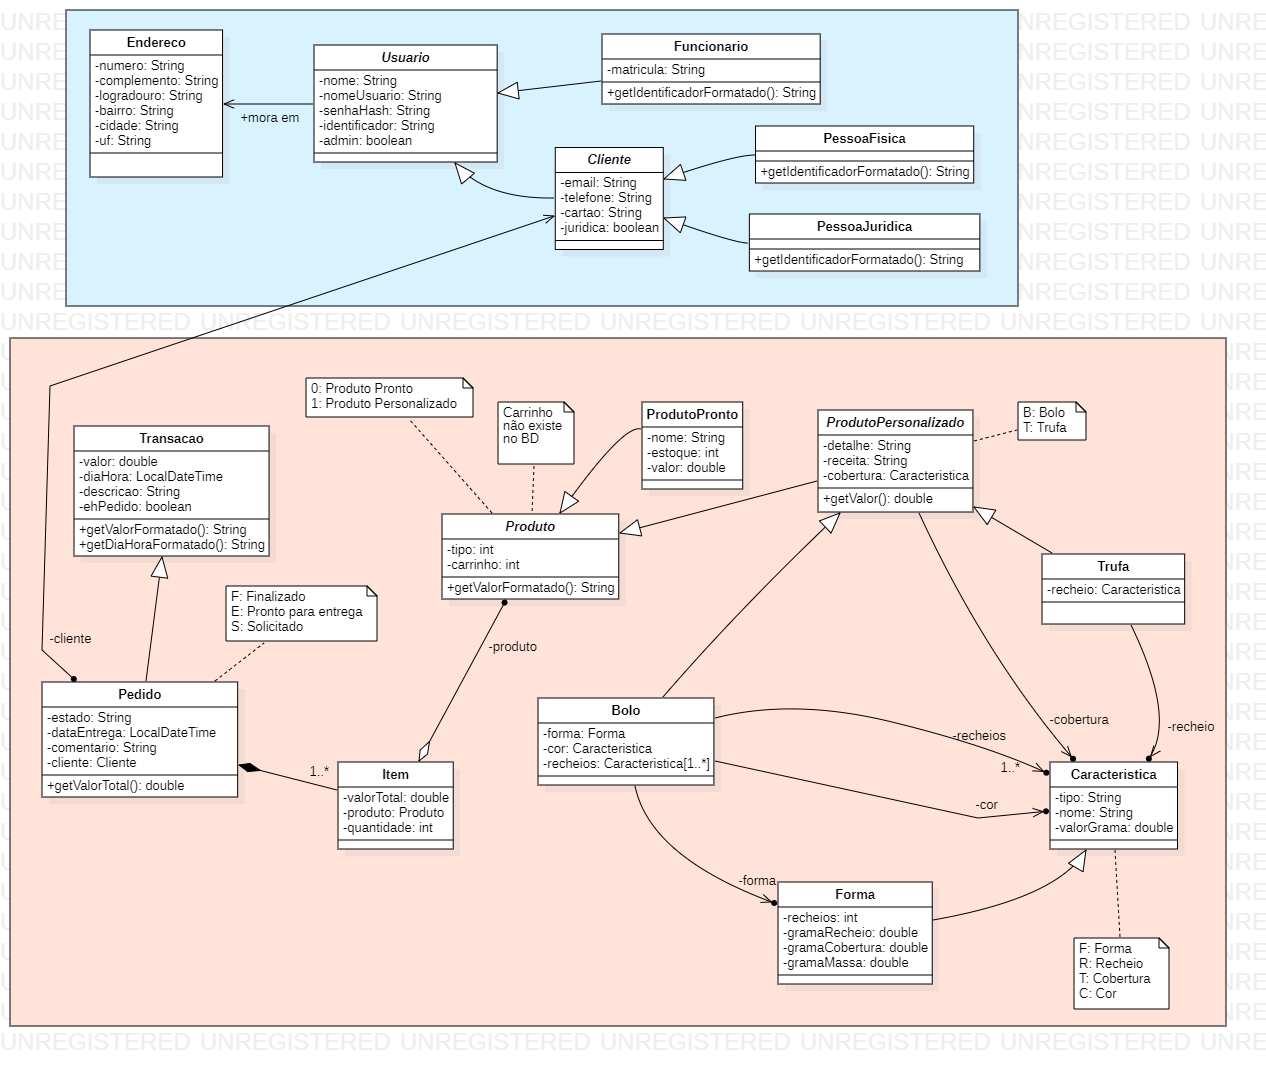
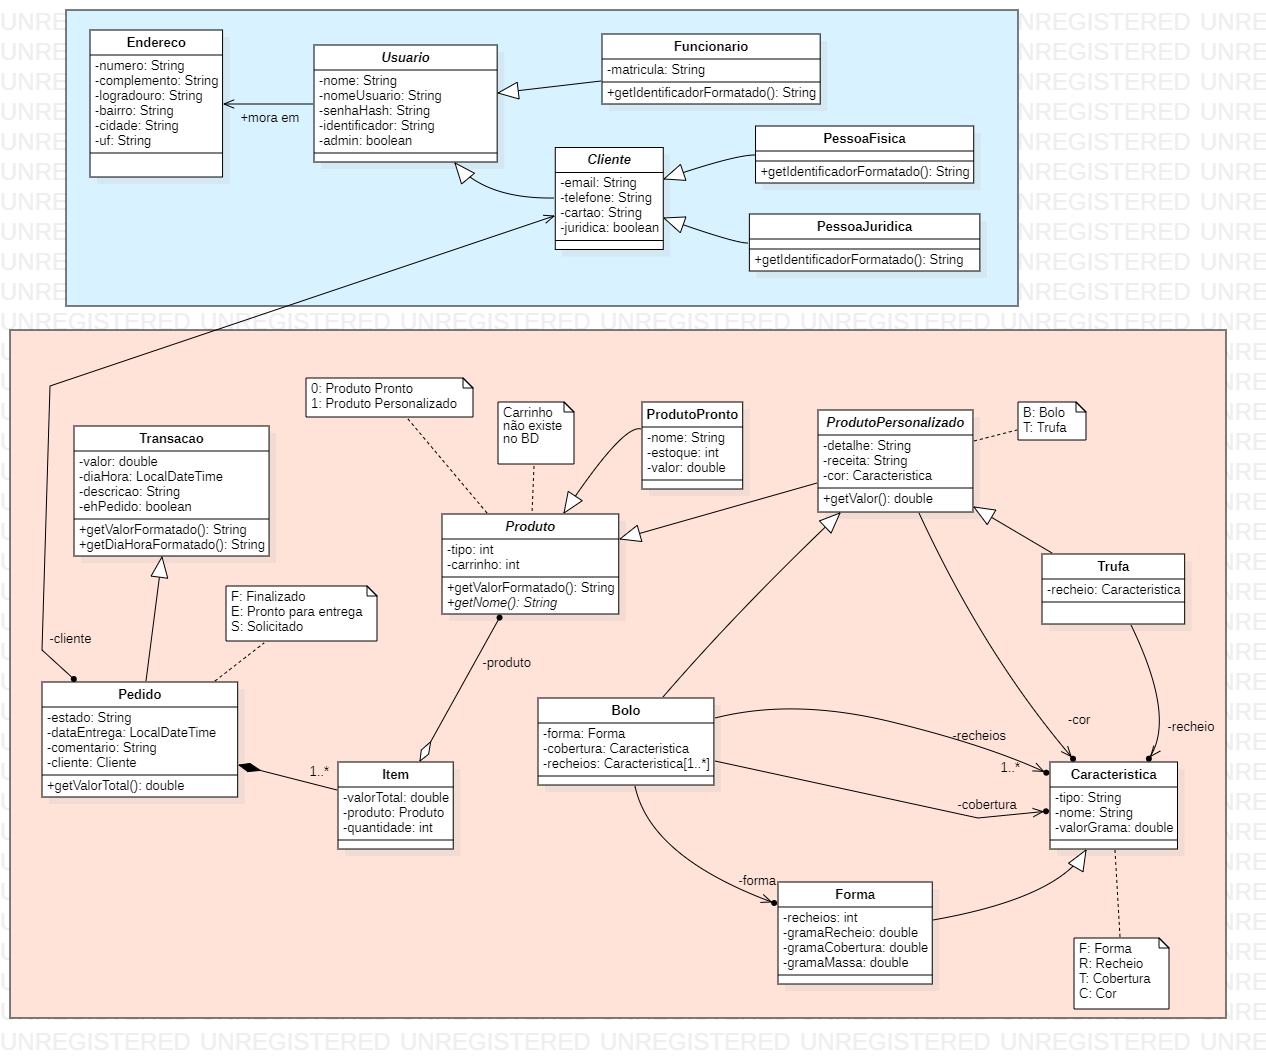
Troca cobertura para cor nas trufas

diff --git a/src/main/java/com/lugar/view/funcionario/VisualizacaoItemProdutoPersonalizado.java b/src/main/java/com/lugar/view/funcionario/VisualizacaoItemProdutoPersonalizado.java
@@ -6,10 +6,8 @@ package com.lugar.view.funcionario;
 
 import com.lugar.confeitaria.Util;
 import com.lugar.model.Caracteristica;
-import com.lugar.model.Forma;
 import com.lugar.model.Item;
 import com.lugar.model.ProdutoPersonalizado;
-import com.lugar.model.ProdutoPronto;
 import java.util.List;
 
 /**
@@ -17,14 +15,14 @@ import java.util.List;
  * @author lugar
  */
 public class VisualizacaoItemProdutoPersonalizado extends javax.swing.JDialog {
-    
+
     private java.awt.Frame pai;
-    
+
     public VisualizacaoItemProdutoPersonalizado(java.awt.Frame parent, boolean modal) {
         super(parent, modal);
         initComponents();
     }
-    
+
     public VisualizacaoItemProdutoPersonalizado(java.awt.Frame parent, boolean modal, Item item) {
         super(parent, modal);
         this.pai = parent;
@@ -34,7 +32,7 @@ public class VisualizacaoItemProdutoPersonalizado extends javax.swing.JDialog {
         textoValorPreenchido.setText(Util.formataDinheiro(item.getValorTotal() / (double) item.getQuantidade()));
         textoQuantidadePreenchido.setText(String.valueOf(item.getQuantidade()));
         textoValorTotalPreenchido.setText(Util.formataDinheiro(item.getValorTotal()));
-        if (produtoPersonalizado.getReceita().equals("B")) {
+        if (produtoPersonalizado.getReceita().equals(Util.RECEITA_BOLO)) {
             this.painelCamposBolo.setVisible(true);
             this.painelCamposTrufa.setVisible(false);
             this.trocaExibicaoRecheios(produtoPersonalizado.getRecheios());
@@ -46,11 +44,11 @@ public class VisualizacaoItemProdutoPersonalizado extends javax.swing.JDialog {
             this.painelCamposBolo.setVisible(false);
             this.painelCamposTrufa.setVisible(true);
             textoRecheioTrufaPreenchido.setText(produtoPersonalizado.getRecheio(0).getNome());
-            textoCoberturaTrufaPreenchido.setText(produtoPersonalizado.getCobertura().getNome());
+            textoCorTrufaPreenchido.setText(produtoPersonalizado.getCor().getNome());
             areaTextoDetalheTrufa.setText(produtoPersonalizado.getDetalhe());
         }
     }
-    
+
     private void trocaExibicaoRecheios(List<Caracteristica> recheios) {
         this.textoRecheioBolo2Preenchido.setVisible(false);
         this.textoRecheioBolo3Preenchido.setVisible(false);
@@ -103,8 +101,8 @@ public class VisualizacaoItemProdutoPersonalizado extends javax.swing.JDialog {
         painelCamposTrufa = new javax.swing.JPanel();
         textoRecheioTrufa = new javax.swing.JLabel();
         textoRecheioTrufaPreenchido = new javax.swing.JLabel();
-        textoCoberturaTrufa = new javax.swing.JLabel();
-        textoCoberturaTrufaPreenchido = new javax.swing.JLabel();
+        textoCorTrufa = new javax.swing.JLabel();
+        textoCorTrufaPreenchido = new javax.swing.JLabel();
         textoDetalheTrufa = new javax.swing.JLabel();
         painelAreaTextoDetalheTrufa = new javax.swing.JScrollPane();
         areaTextoDetalheTrufa = new javax.swing.JTextPane();
@@ -304,8 +302,9 @@ public class VisualizacaoItemProdutoPersonalizado extends javax.swing.JDialog {
         gridBagConstraints.insets = new java.awt.Insets(0, 5, 5, 0);
         painelCamposBolo.add(textoDetalheBolo, gridBagConstraints);
 
-        areaTextoDetalheBolo.setText("\n\n");
         areaTextoDetalheBolo.setEnabled(false);
+        areaTextoDetalheBolo.setMinimumSize(new java.awt.Dimension(62, 66));
+        areaTextoDetalheBolo.setPreferredSize(new java.awt.Dimension(62, 66));
         painelAreaTextoDetalheBolo.setViewportView(areaTextoDetalheBolo);
 
         gridBagConstraints = new java.awt.GridBagConstraints();
@@ -365,25 +364,25 @@ public class VisualizacaoItemProdutoPersonalizado extends javax.swing.JDialog {
         gridBagConstraints.insets = new java.awt.Insets(5, 5, 5, 0);
         painelCamposTrufa.add(textoRecheioTrufaPreenchido, gridBagConstraints);
 
-        textoCoberturaTrufa.setFont(new java.awt.Font("Segoe UI", 0, 14)); // NOI18N
-        textoCoberturaTrufa.setText("Cobertura:");
+        textoCorTrufa.setFont(new java.awt.Font("Segoe UI", 0, 14)); // NOI18N
+        textoCorTrufa.setText("Cor:");
         gridBagConstraints = new java.awt.GridBagConstraints();
         gridBagConstraints.gridx = 0;
         gridBagConstraints.gridy = 1;
         gridBagConstraints.fill = java.awt.GridBagConstraints.BOTH;
         gridBagConstraints.ipadx = 30;
         gridBagConstraints.insets = new java.awt.Insets(0, 5, 5, 0);
-        painelCamposTrufa.add(textoCoberturaTrufa, gridBagConstraints);
+        painelCamposTrufa.add(textoCorTrufa, gridBagConstraints);
 
-        textoCoberturaTrufaPreenchido.setFont(new java.awt.Font("Segoe UI", 0, 14)); // NOI18N
-        textoCoberturaTrufaPreenchido.setText("Chocolate branco");
+        textoCorTrufaPreenchido.setFont(new java.awt.Font("Segoe UI", 0, 14)); // NOI18N
+        textoCorTrufaPreenchido.setText("Chocolate branco");
         gridBagConstraints = new java.awt.GridBagConstraints();
         gridBagConstraints.gridx = 1;
         gridBagConstraints.gridy = 1;
         gridBagConstraints.fill = java.awt.GridBagConstraints.BOTH;
         gridBagConstraints.ipadx = 30;
         gridBagConstraints.insets = new java.awt.Insets(0, 5, 5, 0);
-        painelCamposTrufa.add(textoCoberturaTrufaPreenchido, gridBagConstraints);
+        painelCamposTrufa.add(textoCorTrufaPreenchido, gridBagConstraints);
 
         textoDetalheTrufa.setFont(new java.awt.Font("Segoe UI", 0, 14)); // NOI18N
         textoDetalheTrufa.setText("Detalhe:");
@@ -395,8 +394,9 @@ public class VisualizacaoItemProdutoPersonalizado extends javax.swing.JDialog {
         gridBagConstraints.insets = new java.awt.Insets(0, 5, 5, 0);
         painelCamposTrufa.add(textoDetalheTrufa, gridBagConstraints);
 
-        areaTextoDetalheTrufa.setText("\n\n");
         areaTextoDetalheTrufa.setEnabled(false);
+        areaTextoDetalheTrufa.setMinimumSize(new java.awt.Dimension(62, 66));
+        areaTextoDetalheTrufa.setPreferredSize(new java.awt.Dimension(62, 66));
         painelAreaTextoDetalheTrufa.setViewportView(areaTextoDetalheTrufa);
 
         gridBagConstraints = new java.awt.GridBagConstraints();
@@ -503,10 +503,10 @@ public class VisualizacaoItemProdutoPersonalizado extends javax.swing.JDialog {
     private javax.swing.JPanel painelFormulario;
     private javax.swing.JLabel textoCoberturaBolo;
     private javax.swing.JLabel textoCoberturaBoloPreenchido;
-    private javax.swing.JLabel textoCoberturaTrufa;
-    private javax.swing.JLabel textoCoberturaTrufaPreenchido;
     private javax.swing.JLabel textoCorBolo;
     private javax.swing.JLabel textoCorBoloPreenchido;
+    private javax.swing.JLabel textoCorTrufa;
+    private javax.swing.JLabel textoCorTrufaPreenchido;
     private javax.swing.JLabel textoDetalheBolo;
     private javax.swing.JLabel textoDetalheTrufa;
     private javax.swing.JLabel textoFormaBolo;

diff --git a/src/main/java/com/lugar/view/cliente/CriacaoProdutoPersonalizado.java b/src/main/java/com/lugar/view/cliente/CriacaoProdutoPersonalizado.java
@@ -43,7 +43,7 @@ public class CriacaoProdutoPersonalizado extends javax.swing.JDialog {
     public CriacaoProdutoPersonalizado(java.awt.Frame parent, boolean modal) {
         super(parent, modal);
         this.idProduto = -1;
-        this.receita = "B";
+        this.receita = Util.RECEITA_BOLO;
         this.pai = parent;
         this.editado = false;
         this.carregaComboBoxes();
@@ -55,7 +55,7 @@ public class CriacaoProdutoPersonalizado extends javax.swing.JDialog {
     public CriacaoProdutoPersonalizado(java.awt.Frame parent, boolean modal, ProdutoPersonalizado produto) {
         super(parent, modal);
         this.idProduto = produto.getId();
-        this.receita = "B";
+        this.receita = Util.RECEITA_BOLO;
         this.pai = parent;
         this.editado = false;
         this.carregaComboBoxes();
@@ -122,8 +122,8 @@ public class CriacaoProdutoPersonalizado extends javax.swing.JDialog {
         this.modeloRecheios1 = new DefaultComboBoxModel();
         this.modeloRecheios2 = new DefaultComboBoxModel();
         this.modeloRecheios3 = new DefaultComboBoxModel();
-        SetStringString receitaBolo = new SetStringString("B", "Bolo");
-        SetStringString receitaTrufa = new SetStringString("T", "Trufa");
+        SetStringString receitaBolo = new SetStringString(Util.RECEITA_BOLO, "Bolo");
+        SetStringString receitaTrufa = new SetStringString(Util.RECEITA_TRUFA, "Trufa");
         this.modeloReceita.addElement(receitaBolo);
         this.modeloReceita.addElement(receitaTrufa);
         OperacoesCaracteristica novaListaDeListas = new OperacoesCaracteristica();
@@ -149,7 +149,7 @@ public class CriacaoProdutoPersonalizado extends javax.swing.JDialog {
     }
 
     private void trocaPainel() {
-        if (this.receita.equals("B")) {
+        if (this.receita.equals(Util.RECEITA_BOLO)) {
             this.painelCamposBolo.setVisible(true);
             this.painelCamposTrufa.setVisible(false);
         } else {
@@ -227,8 +227,8 @@ public class CriacaoProdutoPersonalizado extends javax.swing.JDialog {
         painelCamposTrufa = new javax.swing.JPanel();
         textoRecheioTrufa = new javax.swing.JLabel();
         comboBoxRecheioTrufa = new javax.swing.JComboBox<>();
-        textoCoberturaTrufa = new javax.swing.JLabel();
-        comboBoxCoberturaTrufa = new javax.swing.JComboBox<>();
+        textoCorTrufa = new javax.swing.JLabel();
+        comboBoxCorTrufa = new javax.swing.JComboBox<>();
         textoDetalheTrufa = new javax.swing.JLabel();
         painelAreaTextoDetalheTrufa = new javax.swing.JScrollPane();
         areaTextoDetalheTrufa = new javax.swing.JTextPane();
@@ -351,23 +351,23 @@ public class CriacaoProdutoPersonalizado extends javax.swing.JDialog {
         gridBagConstraints.insets = new java.awt.Insets(5, 0, 5, 5);
         painelCamposTrufa.add(comboBoxRecheioTrufa, gridBagConstraints);
 
-        textoCoberturaTrufa.setFont(new java.awt.Font("Segoe UI", 0, 14)); // NOI18N
-        textoCoberturaTrufa.setText("Cobertura:");
+        textoCorTrufa.setFont(new java.awt.Font("Segoe UI", 0, 14)); // NOI18N
+        textoCorTrufa.setText("Cor:");
         gridBagConstraints = new java.awt.GridBagConstraints();
         gridBagConstraints.gridx = 0;
         gridBagConstraints.gridy = 1;
         gridBagConstraints.fill = java.awt.GridBagConstraints.BOTH;
         gridBagConstraints.ipadx = 30;
         gridBagConstraints.insets = new java.awt.Insets(0, 5, 5, 0);
-        painelCamposTrufa.add(textoCoberturaTrufa, gridBagConstraints);
+        painelCamposTrufa.add(textoCorTrufa, gridBagConstraints);
 
-        comboBoxCoberturaTrufa.setModel(this.modeloCoberturas);
+        comboBoxCorTrufa.setModel(this.modeloCores);
         gridBagConstraints = new java.awt.GridBagConstraints();
         gridBagConstraints.gridx = 1;
         gridBagConstraints.gridy = 1;
         gridBagConstraints.fill = java.awt.GridBagConstraints.HORIZONTAL;
         gridBagConstraints.insets = new java.awt.Insets(0, 0, 5, 5);
-        painelCamposTrufa.add(comboBoxCoberturaTrufa, gridBagConstraints);
+        painelCamposTrufa.add(comboBoxCorTrufa, gridBagConstraints);
 
         textoDetalheTrufa.setFont(new java.awt.Font("Segoe UI", 0, 14)); // NOI18N
         textoDetalheTrufa.setText("Detalhe:");
@@ -379,7 +379,7 @@ public class CriacaoProdutoPersonalizado extends javax.swing.JDialog {
         gridBagConstraints.insets = new java.awt.Insets(0, 5, 5, 0);
         painelCamposTrufa.add(textoDetalheTrufa, gridBagConstraints);
 
-        areaTextoDetalheTrufa.setText("\n\n");
+        painelAreaTextoDetalheTrufa.setPreferredSize(new java.awt.Dimension(64, 66));
         painelAreaTextoDetalheTrufa.setViewportView(areaTextoDetalheTrufa);
 
         gridBagConstraints = new java.awt.GridBagConstraints();
@@ -507,7 +507,8 @@ public class CriacaoProdutoPersonalizado extends javax.swing.JDialog {
         gridBagConstraints.insets = new java.awt.Insets(0, 5, 5, 0);
         painelCamposBolo.add(textoDetalheBolo, gridBagConstraints);
 
-        areaTextoDetalheBolo.setText("\n\n");
+        areaTextoDetalheBolo.setMinimumSize(new java.awt.Dimension(62, 66));
+        areaTextoDetalheBolo.setPreferredSize(new java.awt.Dimension(62, 66));
         painelAreaTextoDetalheBolo.setViewportView(areaTextoDetalheBolo);
 
         gridBagConstraints = new java.awt.GridBagConstraints();
@@ -626,8 +627,8 @@ public class CriacaoProdutoPersonalizado extends javax.swing.JDialog {
     private javax.swing.JButton botaoEnviar;
     private javax.swing.JSpinner campoQuantidade;
     private javax.swing.JComboBox<String> comboBoxCoberturaBolo;
-    private javax.swing.JComboBox<String> comboBoxCoberturaTrufa;
     private javax.swing.JComboBox<String> comboBoxCorBolo;
+    private javax.swing.JComboBox<String> comboBoxCorTrufa;
     private javax.swing.JComboBox<String> comboBoxFormaBolo;
     private javax.swing.JComboBox<String> comboBoxReceita;
     private javax.swing.JComboBox<String> comboBoxRecheioBolo1;
@@ -644,8 +645,8 @@ public class CriacaoProdutoPersonalizado extends javax.swing.JDialog {
     private javax.swing.JPanel painelInformacoesProduto;
     private javax.swing.JPanel painelTipoQuantidade;
     private javax.swing.JLabel textoCoberturaBolo;
-    private javax.swing.JLabel textoCoberturaTrufa;
     private javax.swing.JLabel textoCorBolo;
+    private javax.swing.JLabel textoCorTrufa;
     private javax.swing.JLabel textoDetalheBolo;
     private javax.swing.JLabel textoDetalheTrufa;
     private javax.swing.JLabel textoFormaBolo;

diff --git a/src/main/java/com/lugar/view/funcionario/CadastroTransacao.java b/src/main/java/com/lugar/view/funcionario/CadastroTransacao.java
@@ -80,7 +80,6 @@ public class CadastroTransacao extends javax.swing.JDialog {
         gridBagConstraints.gridx = 1;
         gridBagConstraints.gridy = 1;
         gridBagConstraints.fill = java.awt.GridBagConstraints.BOTH;
-        gridBagConstraints.ipady = 20;
         gridBagConstraints.weightx = 1.0;
         gridBagConstraints.insets = new java.awt.Insets(0, 0, 5, 0);
         painelCampos.add(campoDescricao, gridBagConstraints);
@@ -92,6 +91,7 @@ public class CadastroTransacao extends javax.swing.JDialog {
         gridBagConstraints.gridy = 0;
         gridBagConstraints.fill = java.awt.GridBagConstraints.BOTH;
         gridBagConstraints.ipadx = 30;
+        gridBagConstraints.insets = new java.awt.Insets(0, 0, 5, 0);
         painelCampos.add(textoValor, gridBagConstraints);
 
         campoValor.setModel(new javax.swing.SpinnerNumberModel(0.0d, null, null, 1.0d));
@@ -100,6 +100,7 @@ public class CadastroTransacao extends javax.swing.JDialog {
         gridBagConstraints.gridy = 0;
         gridBagConstraints.fill = java.awt.GridBagConstraints.BOTH;
         gridBagConstraints.weightx = 1.0;
+        gridBagConstraints.insets = new java.awt.Insets(0, 0, 5, 0);
         painelCampos.add(campoValor, gridBagConstraints);
 
         gridBagConstraints = new java.awt.GridBagConstraints();

diff --git a/src/main/java/com/lugar/view/cliente/ConfirmacaoPedido.java b/src/main/java/com/lugar/view/cliente/ConfirmacaoPedido.java
@@ -219,7 +219,10 @@ public class ConfirmacaoPedido extends javax.swing.JDialog {
         gridBagConstraints.insets = new java.awt.Insets(0, 5, 5, 0);
         painelCampos.add(textoComentario, gridBagConstraints);
 
-        areaTextoComentario.setText("\n\n");
+        painelAreaTextoComentario.setToolTipText("");
+
+        areaTextoComentario.setMinimumSize(new java.awt.Dimension(62, 66));
+        areaTextoComentario.setPreferredSize(new java.awt.Dimension(62, 66));
         painelAreaTextoComentario.setViewportView(areaTextoComentario);
 
         gridBagConstraints = new java.awt.GridBagConstraints();
